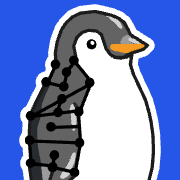
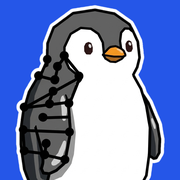
Add TeacherCath, the cat, as a second mascot next to Peri
- New drawings for both mascots in the same style: Peri's penguin
  (src/assets/penguin.webp, replacing the traced SVG) and Cath the cat
  (src/assets/cath.webp). CathCat has the same options as PeriPenguin
  (flip, question, halo).
- Inicio, «Sobre TeacherPeri»: both say the mission, labelled
  TeacherPeri and TeacherCath.
- Footer: the big word takes turns at random between TeacherPeri (violet,
  Cath on the T, Peri on the i) and TeacherCath (pink, Peri on the T,
  Cath on the h), both the same width.
- 404 page and «no results» notes: Peri or Cath at random (RandomMascot).
- Logo seal, favicon, Apple touch icon and logo-512 use the new penguin.
- Link preview image shows both (og-image v=4).

diff --git a/src/components/decor/PeriPenguin.jsx b/src/components/decor/PeriPenguin.jsx
@@ -1,20 +1,20 @@
-import penguin from '../../assets/penguin.svg'
+import penguin from '../../assets/penguin.webp'
 
-// Peri's penguin: the hand-drawn penguin with a graph on its back, the same
-// drawing as the logo seal, traced to SVG in src/assets/penguin.svg. It
-// faces right. Decoration only (aria-hidden).
+// Peri's penguin: the penguin with a graph on its back, the main mascot and
+// the logo (public/logo-seal.svg). Cut out of its white background in
+// src/assets/penguin.webp, in the same style as Cath (CathCat). It faces
+// right. Decoration only (aria-hidden).
 //   flip:     face left instead of right
 //   question: a hand-drawn «?» floats behind its head
 //   halo:     a colour for a sticker-like rim around it, so its dark outline
 //             still shows on a dark background (the footer)
 
 // Size of the drawing's viewBox.
-const W = 107
-const H = 185.9
+const W = 118.5
+const H = 186.0
 
-// The drawing's outer outline, in the traced drawing's own coordinates
-// (shifted into the viewBox like the drawing in penguin.svg).
-const OUTLINE = 'M71.5 190.2l-.5 0-1.3-.2-.4-.1-9.2-1.5-1.7-.3-.4-.2-5.7-4.7-.2-.2-1.2-4.9-.1-.4-.9-4-.2-.5-6.5-5.6-.7 .3-5.5 3-6.2 1.9-1.9 .6-1 .1-2.4 .1-.5 0-2.3 .1-.4 0-.8 0-8-2-.5-.3-.6-.8-.4-1 0-.3 0-.5 .2-1 .3-.6 .3-.3 7.8-6.2 2.1-3.7 .7-1.4-.1-1.1-.1-1-.1-.6-.1-1-.3-2.1-.4-3.4-.3-2.2-.4-3.2-.4-2.9-.1-1-.6-4.8-.1-.6-.2-1.7-.5-3.5-.1-.2-.6-.6-.5-.7-.3-.8-.1-.6 0-.7 .2-.8 .3-.6 .6-.8 1.3-.9 0-.3-.7-9.7-.1-.2-1-.6-.5-.5-.3-.4-.3-.6-.2-.9 0-1.2 .3-1 .4-.6 .7-.7 .6-.5 .1-.1 0-1.9 0-.5 .1-1.5 0-.5 .1-1.3 0-.4 .1-1.4 0-.5 .1-1.4 0-.5 0-1.8-1-1-.7-1.3-.1-.5-.1-.4 .1-.7 .1-.5 .3-.7 .5-.7 .3-.3 1.2-.7 .8-.2 .2-.2 4.1-8.6 4.6-9.1 .6-1.1 0-.2-.5-.7-.2-.4-.3-1.2 0-.6 .1-.6 .4-.9 .5-.7 .5-.5 .8-.5 .6-.2 .8-.1 .8 .1 .7 .2 .2-.1 2.5-5.6 .4-1.1-.1-.2-.5-.7-.3-.6-.2-.6-.1-.7 .1-.8 .2-.8 .6-1 .5-.5 .5-.4 .6-.3 .1-.1 0-.8 0-.4-.1-1 0-.3-.1-.9 0-.3-.1-1.5 1.5-8.7 2-5.6 .6-1.7 1-2.5 3.6-5.1 1.7-1.6 1.3-1.2 1-.9 1-.9 6.4-2.9 2.4-.3 1.1-.1 .6-.1 .3 0 .6-.1 1.7-.2 .6-.1 2.1-.2 .7-.1 1.1-.1 2.9 .6 .9 .2 .9 .1 .5 .1 1.6 .5 2.6 .6 3 .7 .5 .1 5.7 2.5 .3 .2 .9 .7 2.9 2.3 .5 .5 2.9 5.2 1.8 3.7 12.5 7.9 .3 .3 .2 .3 0 .7-.3 .6-3.2 3-.7 .3-7.4 2.4-.2 .1-.1 .5-1 7 2 6.7 9.4 20.2 2.4 8.5 1.7 7.5 1.4 9.8 .1 .7 0 .4 .1 2.1 0 .5 .1 2.3 0 .5 .1 2.1 0 .5 .1 2.1 0 .8 0 1.9 0 .4-.2 2.2 0 .3-.1 .9 0 .3-.1 .9 0 .3-.1 .9 0 .3-.1 .9 0 .3-.1 .9 0 .3-.3 3-3.2 12.7-4.3 11.6-.3 .6-5 6.6-.3 .3-.6 .5-4.3 3.4-.1 .2 1 3.4 .3 .8 5.8 1.8 1 .4 2.6 1.4 2.2 1.1 1.4 .8 .7 .8 2.2 3.1 .1 .6-.2 .7-.3 .3-.4 .2-2.2 .5-.4 .1-.1 .2 0 .5-.1 1-.2 .8-.4 .6-.4 .3-.4 .1-.4 0-1.1-.2-1.9-.4-1.6-.3-.1 .1-.1 .8-.3 .4-.7 .5-.4 .1-.7 0-.3 0-.8-.1-1.4-.1-.9-.1-.3 0-1-.1-.4 0-1-.1-.4 0-2.2-.2-5-1.5-3.4-1-.5-.3-3.3-3.3-.8-.9-.2-.4-1.4-4.5-.2-.5-.1-.1-.5 .1-5.6 .9-.4 .1-1 .2-.1 .1-.1 .1 .2 .3 1.1 2.1 .5 .7 .4 .4 1.1 .6 2.5 1.2 4.6 2.3 .2 .2 2.5 3.8 .1 .5 0 .3-.1 .3-.2 .3-.2 .2-.4 .2-2.8 .9-.1 .2-.7 2.4-.3 .4-.2 .2-.4 .1-.5 0-5.1-1.2-.2 .1 0 1.1-.1 .3-.2 .3Z'
+// The drawing's outer outline, traced from the image.
+const OUTLINE = 'M55.7 185.3 L51.3 185.1 L41.8 183.3 L35.3 176.8 L33.9 170.2 L32.8 169.1 L29.6 168.1 L20.0 161.1 L14.0 163.3 L5.8 163.3 L4.2 162.9 L3.5 162.0 L2.9 159.4 L6.5 154.4 L8.5 145.8 L3.7 133.5 L2.1 121.1 L1.1 118.9 L0.5 99.3 L1.3 97.7 L2.9 86.1 L2.9 84.9 L1.1 82.7 L1.1 80.7 L2.8 78.6 L4.6 78.0 L5.5 76.9 L7.7 68.9 L13.7 58.7 L12.9 56.5 L13.1 54.5 L15.6 52.2 L18.0 52.2 L21.1 46.4 L21.5 45.0 L20.1 42.2 L21.1 39.8 L22.7 38.4 L22.9 28.8 L28.1 15.4 L44.6 3.1 L59.3 0.7 L65.3 0.5 L79.5 3.3 L92.3 12.3 L99.6 26.8 L101.2 41.4 L99.2 49.5 L96.2 55.5 L102.4 66.3 L103.6 70.5 L108.8 78.5 L115.8 95.3 L117.8 106.5 L117.6 119.5 L114.5 124.8 L111.5 125.4 L109.5 124.0 L108.6 124.7 L106.8 138.7 L99.6 151.8 L85.6 163.0 L86.3 163.9 L94.9 167.7 L98.0 171.6 L98.2 172.8 L97.1 173.7 L95.5 173.9 L94.6 174.8 L94.4 176.6 L93.3 177.7 L88.5 176.9 L86.7 178.7 L84.1 178.7 L77.5 178.1 L68.9 175.5 L63.5 169.9 L57.9 170.1 L57.2 170.8 L57.9 171.7 L64.3 174.7 L67.4 179.6 L64.1 181.1 L62.1 184.7 L56.9 183.5 L55.7 185.3 Z'
 
 export default function PeriPenguin({ className = '', flip = false, question = false, halo = null }) {
   return (
@@ -26,7 +26,7 @@ export default function PeriPenguin({ className = '', flip = false, question = f
             <circle cx="12" cy="30" r="2.2" fill="var(--tp-ink)" />
           </g>
         )}
-        {halo && <path d={OUTLINE} transform="translate(-10.5 -5.9)" fill={halo} stroke={halo} strokeWidth="12" strokeLinejoin="round" />}
+        {halo && <path d={OUTLINE} fill={halo} stroke={halo} strokeWidth="12" strokeLinejoin="round" />}
         <image href={penguin} width={W} height={H} />
       </g>
     </svg>

diff --git a/src/components/Footer.jsx b/src/components/Footer.jsx
@@ -1,6 +1,7 @@
-import { useRef } from 'react'
+import { useRef, useState } from 'react'
 import { Link } from 'react-router-dom'
 import PeriPenguin from './decor/PeriPenguin'
+import CathCat from './decor/CathCat'
 
 const LINKS = [
   ['Rutas', '/rutas'],
@@ -18,6 +19,8 @@ const LINKS = [
 // re-renders React.
 export default function Footer() {
   const footer = useRef(null)
+  // Which word the big footer shows this time (see the comment on it).
+  const [cathWord] = useState(() => Math.random() < 0.5)
 
   function trackPointer(event) {
     if (event.pointerType !== 'mouse' || !footer.current) return
@@ -48,13 +51,28 @@ export default function Footer() {
           ))}
         </nav>
       </div>
-      {/* The penguin stands on the «i» of Peri as its dot (a dotless ı below
-          it), so the visible letters are aria-hidden behind a plain label. */}
-      <Link to="/" aria-label="TeacherPeri" className="relative mt-10 block select-none whitespace-nowrap text-center font-display text-[clamp(64px,19vw,290px)] font-extrabold leading-[.8] tracking-[-0.055em] text-tp-paper transition-colors hover:text-white">
-        <span aria-hidden="true">
-          Teacher<span className="text-[#9d7cff]">Per<span className="relative">ı<PeriPenguin flip halo="#9d7cff" className="pointer-events-none absolute bottom-[0.79em] left-1/2 h-[max(44px,0.4em)] w-auto -translate-x-1/2" /></span></span>
-        </span>
-      </Link>
+      {/* The big word takes turns at random: «TeacherPeri» or «TeacherCath».
+          Both mascots stand on it either way. In TeacherPeri, Cath sits on
+          the top of the «T» and Peri stands on the «i» as its dot (a dotless
+          ı below it); in TeacherCath, Peri stands on the «T» and Cath sits on
+          the «h». «Peri» is violet and «Cath» pink, like her ears. TeacherCath
+          is a little wider, so its font is a little
+          smaller and both words span the same width. The visible letters are
+          aria-hidden behind a plain label, and the top margin grows with the
+          word so the mascot on the «T» clears the text above. */}
+      {cathWord ? (
+        <Link to="/" aria-label="TeacherCath" className="relative mt-[max(3rem,0.44em)] block select-none whitespace-nowrap text-center font-display text-[clamp(60px,17.7vw,270px)] font-extrabold leading-[.8] tracking-[-0.055em] text-tp-paper transition-colors hover:text-white">
+          <span aria-hidden="true">
+            <span className="relative">T<PeriPenguin halo="var(--tp-paper)" className="pointer-events-none absolute bottom-[0.93em] left-1/2 h-[max(44px,0.4em)] w-auto -translate-x-1/2" /></span>eacher<span className="text-[#ff8fb8]">Cat<span className="relative">h<CathCat halo="#ff8fb8" className="pointer-events-none absolute bottom-[0.98em] left-[0.13em] h-[max(36px,0.34em)] w-auto -translate-x-1/2" /></span></span>
+          </span>
+        </Link>
+      ) : (
+        <Link to="/" aria-label="TeacherPeri" className="relative mt-[max(2.5rem,0.34em)] block select-none whitespace-nowrap text-center font-display text-[clamp(64px,19vw,290px)] font-extrabold leading-[.8] tracking-[-0.055em] text-tp-paper transition-colors hover:text-white">
+          <span aria-hidden="true">
+            <span className="relative">T<CathCat halo="var(--tp-paper)" className="pointer-events-none absolute bottom-[0.93em] left-1/2 h-[max(36px,0.34em)] w-auto -translate-x-1/2" /></span>eacher<span className="text-[#9d7cff]">Per<span className="relative">ı<PeriPenguin flip halo="#9d7cff" className="pointer-events-none absolute bottom-[0.79em] left-1/2 h-[max(44px,0.4em)] w-auto -translate-x-1/2" /></span></span>
+          </span>
+        </Link>
+      )}
       <div className="relative border-t border-white/10 py-5 text-center text-xs text-white/40">
         Hecho con cariño para quienes aman resolver problemas.
       </div>

diff --git a/src/pages/HomePage.jsx b/src/pages/HomePage.jsx
@@ -6,6 +6,7 @@ import { useInView } from '../hooks/useInView'
 import { usePageMeta } from '../hooks/usePageMeta'
 import { BubbleTail, Burst, HandArrow, Highlight, Mark, Marquee } from '../components/decor/Decor'
 import PeriPenguin from '../components/decor/PeriPenguin'
+import CathCat from '../components/decor/CathCat'
 import { useAuth } from '../context/useAuth'
 import { apiFetch } from '../lib/api'
 import { LIBRARY_BASE } from '../lib/libraryPaths'
@@ -382,17 +383,27 @@ function SobreTeacherPeri() {
           <h2 id="sobre-titulo" className="tp-section-title max-w-[1000px]">Construido desde la experiencia de aprender, competir y <Highlight color="var(--tp-sky)">enseñar</Highlight>.</h2>
         </div>
         <div className="grid items-start gap-14 lg:grid-cols-[minmax(0,1.5fr)_minmax(0,1fr)]">
-          {/* Peri's penguin says the mission. On a phone the bubble sits above
-              it, its tail pointing down at the head; from sm up the penguin
-              stands to the left of the bubble, the tail pointing at its beak,
-              and the buttons go under the bubble. */}
+          {/* The two mascots, Peri's penguin and Cath the cat, say the
+              mission. On a phone the bubble sits above them, its tail pointing
+              down at Peri's head; from sm up they stand to the left of the
+              bubble, the tail pointing at Peri's beak, and the buttons go
+              under the bubble. */}
           <div className="grid grid-cols-[auto_minmax(0,1fr)] items-end gap-x-5 gap-y-3 [grid-template-areas:'bubble_bubble'_'penguin_buttons'] sm:items-start sm:gap-x-11 sm:gap-y-7 sm:[grid-template-areas:'penguin_bubble'_'penguin_buttons']">
             <div className="tp-bubble max-w-[640px] bg-tp-surface px-6 py-5 [grid-area:bubble] sm:px-7">
               <p className="text-[17px] leading-[1.65]"><strong>Misión:</strong> hacer que el entrenamiento para olimpiadas de matemáticas sea accesible para todos. Inspirados por la experiencia de dar talleres gratuitos a estudiantes y profesores.</p>
               <BubbleTail className="left-12 top-[calc(100%-3px)] sm:hidden" />
               <BubbleTail className="left-[3px] top-7 hidden origin-top-left rotate-90 sm:block" />
             </div>
-            <PeriPenguin className="mt-11 h-[160px] w-auto [grid-area:penguin] sm:mt-0 sm:h-[220px] lg:h-[240px]" />
+            <div aria-hidden="true" className="mt-11 flex items-end [grid-area:penguin] sm:mt-0">
+              <div className="flex flex-col items-center">
+                <PeriPenguin className="h-[150px] w-auto sm:h-[200px] xl:h-[230px]" />
+                <span className="tp-hand -rotate-3 whitespace-nowrap text-[20px] leading-none sm:text-[24px]">TeacherPeri</span>
+              </div>
+              <div className="ml-2 flex flex-col items-center sm:ml-3">
+                <CathCat className="h-[112px] w-auto sm:h-[148px] xl:h-[170px]" />
+                <span className="tp-hand rotate-2 whitespace-nowrap text-[20px] leading-none sm:text-[24px]">TeacherCath</span>
+              </div>
+            </div>
             <div className="flex flex-wrap gap-3 pb-1 [grid-area:buttons]">
               <Link to="/sobre-mi" className="tp-button bg-tp-ink px-5 font-bold text-white">Sobre mí</Link>
               <Link to="/contacto" className="tp-button bg-tp-surface px-5 font-bold text-tp-ink">Contacto</Link>

diff --git a/src/components/training/LibraryCollection.jsx b/src/components/training/LibraryCollection.jsx
@@ -6,7 +6,7 @@ import { examBrowseContents, examBrowseTree } from '../../lib/examBrowse'
 import MathText from '../math/MathText'
 import PageHero from '../PageHero'
 import { GlyphTile } from '../decor/Decor'
-import PeriPenguin from '../decor/PeriPenguin'
+import RandomMascot from '../decor/RandomMascot'
 import { SkeletonGrid } from '../Skeleton'
 import FolderFilter from './FolderFilter'
 import { useAreaTree } from './filters/areaTree'
@@ -127,7 +127,7 @@ export default function LibraryCollection({ type, title, subtitle, onOpen, eyebr
   const resultsBlock = (resultsTop, grid) => <>
     <div aria-live="polite" className={`${resultsTop} font-display text-[22px] font-extrabold tracking-[-0.02em]`}>{loading ? 'Cargando biblioteca…' : results.error ? `No fue posible cargar la biblioteca: ${results.error}` : (type === 'exams' ? shownItems.length : results.total) === 1 ? '1 resultado' : `${type === 'exams' ? shownItems.length : results.total} resultados`}</div>
     {loading && <SkeletonGrid count={6} className={`mt-5 grid gap-6 ${grid}`} />}
-    {!loading && !results.error && (type === 'exams' ? !shownItems.length && !examContents.folders.length : !results.total) && <div className="tp-card-quiet mt-4 flex items-center gap-5 bg-tp-surface p-6"><PeriPenguin question className="h-24 w-auto shrink-0" /><p className="text-[17px]">No hay contenido que coincida. Prueba otra búsqueda o limpia los filtros.</p></div>}
+    {!loading && !results.error && (type === 'exams' ? !shownItems.length && !examContents.folders.length : !results.total) && <div className="tp-card-quiet mt-4 flex items-center gap-5 bg-tp-surface p-6"><RandomMascot question className="h-24 w-auto shrink-0" /><p className="text-[17px]">No hay contenido que coincida. Prueba otra búsqueda o limpia los filtros.</p></div>}
     {!loading && <div className={`mt-5 grid gap-6 ${grid}`}>{shownItems.map((item) => <article key={item._id} className="tp-card-soft tp-lift flex min-w-0 flex-col overflow-hidden bg-tp-surface">
       <div className={`flex items-center justify-between gap-2 border-b-2 border-tp-ink px-5 py-2.5 ${AREA_STRIPS[item.tema] || look.strip}`}>
         <p className="truncate text-xs font-extrabold uppercase tracking-[0.12em]">{item.codigo || title}{item.level || item.difficulty ? ` · ${LEVELS[item.level || item.difficulty]}` : ''}</p>

diff --git a/src/components/decor/CathCat.jsx b/src/components/decor/CathCat.jsx
@@ -1,0 +1,34 @@
+import cath from '../../assets/cath.webp'
+
+// Cath, TeacherCath's cat: the second mascot, next to Peri's penguin
+// (PeriPenguin). A cartoon tabby sitting with her head tilted, drawn in the same
+// style as Peri and cut out of its white background in src/assets/cath.webp. Decoration only (aria-hidden).
+// Same options as PeriPenguin:
+//   flip:     mirror her
+//   question: a hand-drawn «?» floats behind her head
+//   halo:     a colour for a sticker-like rim around her, so her dark outline
+//             still shows on a dark background (the footer)
+
+// Size of the drawing's viewBox (the image's proportions, 186 high like Peri).
+const W = 127.4
+const H = 186.0
+
+// The drawing's outer outline, traced from the image.
+const OUTLINE = 'M38.3 185.3 L29.7 184.3 L14.4 178.3 L5.3 169.9 L0.5 158.7 L0.5 156.7 L5.5 143.3 L16.4 136.2 L17.2 124.0 L24.4 108.8 L37.8 93.9 L32.0 89.9 L23.6 76.6 L22.4 61.6 L13.3 47.8 L11.3 36.7 L13.6 31.8 L24.9 29.8 L37.1 31.8 L52.4 21.8 L69.2 18.0 L70.7 16.5 L73.9 10.6 L79.6 4.4 L84.1 0.9 L86.5 0.5 L93.8 6.6 L99.0 16.7 L100.8 27.7 L111.5 40.5 L114.3 53.6 L114.3 55.8 L111.7 67.0 L106.0 75.8 L114.7 88.3 L118.5 101.3 L122.3 109.2 L124.7 116.4 L126.7 127.6 L126.7 131.6 L123.3 144.9 L115.7 155.5 L118.9 159.5 L119.1 164.9 L115.4 169.4 L108.8 171.3 L104.3 170.0 L103.4 171.2 L102.0 175.6 L95.9 179.3 L87.3 178.9 L80.7 173.7 L75.0 177.3 L67.6 178.7 L61.4 176.5 L58.6 171.1 L55.0 171.5 L54.3 172.2 L54.7 177.0 L49.0 183.5 L38.3 185.3 Z'
+
+export default function CathCat({ className = '', flip = false, question = false, halo = null }) {
+  return (
+    <svg aria-hidden="true" focusable="false" viewBox={`0 0 ${W} ${H}`} className={`overflow-visible ${className}`}>
+      <g transform={flip ? `translate(${W} 0) scale(-1 1)` : undefined}>
+        {question && (
+          <g fill="none" stroke="var(--tp-ink)" strokeWidth="4.5" strokeLinecap="round" strokeLinejoin="round" transform="translate(96 -2)">
+            <path d="M0 -4 C 0 -19, 24 -19, 24 -4 C 24 8, 12 9, 12 19" />
+            <circle cx="12" cy="30" r="2.2" fill="var(--tp-ink)" />
+          </g>
+        )}
+        {halo && <path d={OUTLINE} fill={halo} stroke={halo} strokeWidth="12" strokeLinejoin="round" />}
+        <image href={cath} width={W} height={H} />
+      </g>
+    </svg>
+  )
+}

diff --git a/src/pages/RutasPage.jsx b/src/pages/RutasPage.jsx
@@ -5,7 +5,7 @@ import Footer from '../components/Footer'
 import PageHero from '../components/PageHero'
 import { Mark } from '../components/decor/Decor'
 import { SkeletonGrid } from '../components/Skeleton'
-import PeriPenguin from '../components/decor/PeriPenguin'
+import RandomMascot from '../components/decor/RandomMascot'
 import RouteGraph from '../components/decor/RouteGraph'
 import { apiFetch } from '../lib/api'
 import { usePageMeta } from '../hooks/usePageMeta'
@@ -68,7 +68,7 @@ export default function RutasPage() {
         <section aria-label="Rutas publicadas" className="tp-container py-16 lg:py-20">
           {loading && <><p className="sr-only">Cargando Rutas…</p><SkeletonGrid count={3} strip={false} strong className="grid gap-8 md:grid-cols-2 xl:grid-cols-3" /></>}
           {error && <p className="tp-card-quiet bg-tp-orange-soft p-4">No fue posible cargar las Rutas: {error}</p>}
-          {!loading && !error && paths.length === 0 && <div className="tp-card-soft flex items-center gap-5 bg-tp-surface p-6"><PeriPenguin className="h-24 w-auto shrink-0" /><p className="text-[17px] text-tp-ink-soft">Todavía no hay Rutas publicadas.</p></div>}
+          {!loading && !error && paths.length === 0 && <div className="tp-card-soft flex items-center gap-5 bg-tp-surface p-6"><RandomMascot className="h-24 w-auto shrink-0" /><p className="text-[17px] text-tp-ink-soft">Todavía no hay Rutas publicadas.</p></div>}
           <div className="grid gap-8 md:grid-cols-2 xl:grid-cols-3">
             {paths.map((path, index) => {
               const tone = CARD_TONES[index % CARD_TONES.length]

diff --git a/src/pages/NotFoundPage.jsx b/src/pages/NotFoundPage.jsx
@@ -2,11 +2,11 @@ import { Link } from 'react-router-dom'
 import Navbar from '../components/Navbar'
 import Footer from '../components/Footer'
 import { Burst } from '../components/decor/Decor'
-import PeriPenguin from '../components/decor/PeriPenguin'
+import RandomMascot from '../components/decor/RandomMascot'
 import { usePageMeta } from '../hooks/usePageMeta'
 
 // 404: a poster «4✸4» where the zero is a comic starburst and a puzzled
-// penguin stands beside it, the page title
+// mascot (Peri or Cath, they take turns) stands beside it, the page title
 // for screen readers and search, and three ways back in.
 export default function NotFoundPage() {
   usePageMeta({ title: 'Página no encontrada', noindex: true })
@@ -25,7 +25,7 @@ export default function NotFoundPage() {
                 <span className="text-[0.62em] leading-none">0</span>
               </Burst>
               4
-              <PeriPenguin question flip className="ml-[0.16em] h-[0.86em] w-auto self-end" />
+              <RandomMascot question flip className="ml-[0.16em] h-[0.86em] w-auto self-end" />
             </p>
             <h1 id="no-encontrada" className="tp-page-title">Página no encontrada</h1>
             <p className="tp-hand -rotate-2 text-[32px] leading-tight">Este problema no tiene solución… todavía.</p>

diff --git a/src/components/Navbar.jsx b/src/components/Navbar.jsx
@@ -190,9 +190,10 @@ export default function Navbar({ activePath } = {}) {
     <header className="fixed inset-x-0 top-0 z-50 border-b-3 border-tp-ink bg-tp-surface">
       <nav aria-label="Principal">
         <div className="tp-container flex h-[69px] items-center justify-between gap-4">
-          {/* The logo mark is the penguin drawing with the graph on its back,
-              traced to SVG. public/logo-seal.svg is the same penguin as the
-              favicon, on the blue seal. */}
+          {/* The logo mark is Peri, the penguin with the graph on its back
+              (src/assets/penguin.webp), from its head down to the graph on
+              the blue seal (public/logo-seal.svg). The favicon is the whole
+              penguin. */}
           <Link to="/" className="tp-logo group inline-flex min-h-11 shrink-0 items-center gap-2.5 text-tp-ink">
             <span aria-hidden="true" className="block size-11 shrink-0 -rotate-3 overflow-hidden rounded-[12px] border-[2.5px] border-tp-ink bg-tp-blue shadow-[2.5px_2.5px_0_var(--tp-ink)] transition-transform duration-200 group-hover:rotate-3 motion-reduce:transition-none">
               <img src="/logo-seal.svg" alt="" width="44" height="44" className="block size-full" />

diff --git a/index.html b/index.html
@@ -23,10 +23,10 @@
     <meta property="og:locale" content="es_MX" />
     <meta property="og:title" content="TeacherPeri | Material para la olimpiada de matemáticas" />
     <meta property="og:description" content="Rutas de entrenamiento, problemas, teoría y exámenes para prepararte para la olimpiada de matemáticas, en español y desde cualquier nivel." />
-    <meta property="og:image" content="https://teacherperi.vercel.app/og-image.png?v=3" />
+    <meta property="og:image" content="https://teacherperi.vercel.app/og-image.png?v=4" />
     <meta property="og:image:width" content="1200" />
     <meta property="og:image:height" content="630" />
-    <meta property="og:image:alt" content="TeacherPeri, material para la olimpiada de matemáticas: Rutas, Problemas, Teoría y Exámenes, con el pingüino de TeacherPeri." />
+    <meta property="og:image:alt" content="TeacherPeri, material para la olimpiada de matemáticas: Rutas, Problemas, Teoría y Exámenes, con TeacherPeri y TeacherCath, el pingüino y la gatita de la página." />
     <meta name="twitter:card" content="summary_large_image" />
     <script type="application/ld+json">
       {

diff --git a/src/components/decor/RandomMascot.jsx b/src/components/decor/RandomMascot.jsx
@@ -1,0 +1,11 @@
+import { useState } from 'react'
+import PeriPenguin from './PeriPenguin'
+import CathCat from './CathCat'
+
+// One of the two mascots, Peri's penguin or Cath the cat, picked at random
+// each time it appears, for the places where they take turns (the 404 page,
+// «no results» notes). Takes the same options as PeriPenguin and CathCat.
+export default function RandomMascot(props) {
+  const [isCath] = useState(() => Math.random() < 0.5)
+  return isCath ? <CathCat {...props} /> : <PeriPenguin {...props} />
+}

diff --git a/docs/es/FEATURES.md b/docs/es/FEATURES.md
@@ -57,6 +57,7 @@ Una Ruta es un recorrido ordenado por material que ya existe. En
 | Imágenes en los problemas (geometría) | Hecho | Hasta 4 por problema, cada una con descripción obligatoria en español. Los usuarios las agregan al proponer; editores y admins las ven en Revisión; los editores las agregan, reemplazan o quitan (enunciado o solución). La descripción acepta fórmulas con $…$: quien escribe ve una vista previa, quien revisa la ve renderizada junto a cada imagen, y la página nunca la muestra (el texto `alt` recibe una versión en texto simple). Se guardan en MongoDB como WebP (máximo 1200 px), unos 12 KB por figura. Ver [SUBMISSIONS.md](SUBMISSIONS.md#imágenes-en-los-problemas) |
 | Búsqueda global en todas las bibliotecas | Planeado | **Hoy:** cada biblioteca tiene su propia búsqueda |
 | Renovación visual de Inicio, Rutas, Entrenamiento, Listas, Contacto y lecciones (estilo «cómic», logo del pingüino) | Hecho | Pull requests #18, #20 y #21 |
+| Dos mascotas: TeacherPeri (pingüino) y TeacherCath (gatita) | Hecho | Juntas en «Sobre TeacherPeri» y la vista previa de links; la palabra del pie de página se turna entre TeacherPeri y TeacherCath; se turnan en la página 404 y en los avisos sin resultados. Ver [DESIGN.md](DESIGN.md) |
 
 ## Listas
 

diff --git a/docs/FEATURES.md b/docs/FEATURES.md
@@ -57,6 +57,7 @@ A Ruta is an ordered path through existing material. See
 | Images in problems (geometry) | Done | Up to 4 per problem, each with a required Spanish description. Users add them when proposing; editors and admins see them in Revisión; editors add, replace or remove them (statement or solution). The description can use $…$ math: writers see a live preview, reviewers see it rendered next to each image, and the page never shows it (the `alt` text gets a plain version). Stored in MongoDB as WebP (max 1200 px), about 12 KB per figure. See [SUBMISSIONS.md](SUBMISSIONS.md#images-in-problems) |
 | Global search across all libraries | Planned | **Today:** each library has its own search |
 | Visual refresh of Inicio, Rutas, Entrenamiento, Listas, Contacto and lessons («cómic» style, penguin logo) | Done | Pull requests #18, #20 and #21 |
+| Two mascots: TeacherPeri (penguin) and TeacherCath (cat) | Done | Together in «Sobre TeacherPeri» and the link preview; the footer word takes turns between TeacherPeri and TeacherCath; they take turns on the 404 page and «no results» notes. See [DESIGN.md](DESIGN.md) |
 
 ## Listas
 
